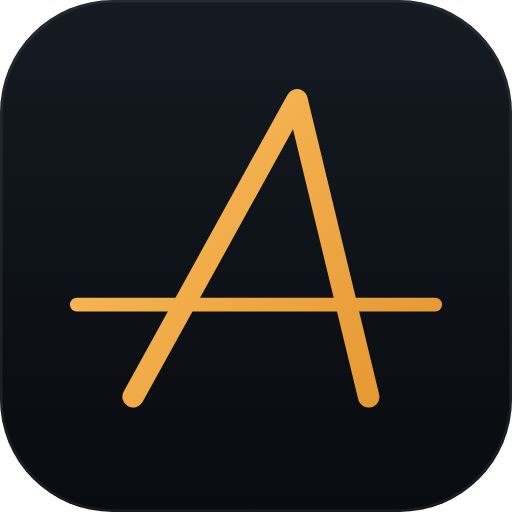
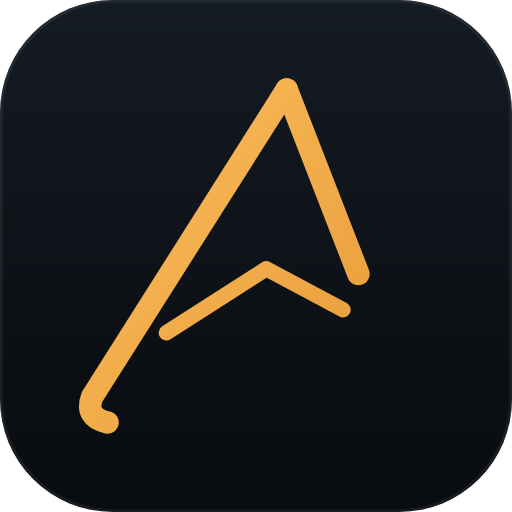
Stylize the mark's A into a paper airplane, from the signature's lean
The previous mark was a plain A. This one takes the actual asymmetry of the
owner's signature — a left downstroke that sweeps hard past the baseline
into a small hook, a right stroke that's short and steep — and draws it the
rest of the way into a dart: the long stroke becomes a swept wing with its
wingtip hook intact, the short stroke becomes a tail, and the crossbar
becomes the wing's leading edge, landing on both legs (a delta wing) rather
than spanning past them.

Verified down to 24px and against a maskable circular crop; the in-app Mark
component shares the exact path data with the icon generator so the button
on the home screen and the mark in the app bar are the same shape.

Claude-Session: https://claude.ai/code/session_01Qd4zTR4ai5paN9idvgMqh4

Changed region(s): [[0.125, 0.1562, 0.875, 0.8438], [0.5938, 0.1875, 0.625, 0.25]]

diff --git a/src/components/Brand.tsx b/src/components/Brand.tsx
@@ -1,15 +1,23 @@
 /**
- * The AEROBOOK mark: an "A" whose crossbar runs past both legs. Drawn inline
- * so it inherits the surrounding text colour. Decorative — screen readers
- * skip it and read the wordmark beside it instead.
+ * The AEROBOOK mark.
+ *
+ * Takes its asymmetry from the owner's own signature: a capital "A" whose
+ * left downstroke sweeps hard past the baseline into a small hook, while the
+ * right stroke is short and steep. Drawn the rest of the way into a
+ * paper-airplane silhouette — the long stroke is a swept wing with its
+ * wingtip hook, the short stroke is a tail, and the crossbar is the wing's
+ * leading edge, landing on both legs rather than spanning past them.
+ *
+ * Inline SVG so it inherits the surrounding text colour. Decorative — screen
+ * readers skip it and read the wordmark beside it instead.
  */
 export function Mark({ size = 22, className }: { size?: number; className?: string }) {
   return (
     <svg
       className={className}
       width={size}
-      height={size * (68 / 80)}
-      viewBox="10 17 80 68"
+      height={size * (70.2 / 57.6)}
+      viewBox="15 13.4 57.6 70.2"
       fill="none"
       stroke="currentColor"
       strokeLinecap="round"
@@ -17,8 +25,9 @@ export function Mark({ size = 22, className }: { size?: number; className?: stri
       aria-hidden="true"
       focusable="false"
     >
-      <path d="M26 80 L58 22 L72 80" strokeWidth="5" />
-      <path d="M15 62 H85" strokeWidth="3.4" />
+      <path d="M56 16 L18 76 Q16.5 80 21 81" strokeWidth="5.6" />
+      <path d="M56 16 L70 52" strokeWidth="5.6" />
+      <path d="M32.5 63.5 L52 51 L67 59" strokeWidth="3.8" />
     </svg>
   );
 }
